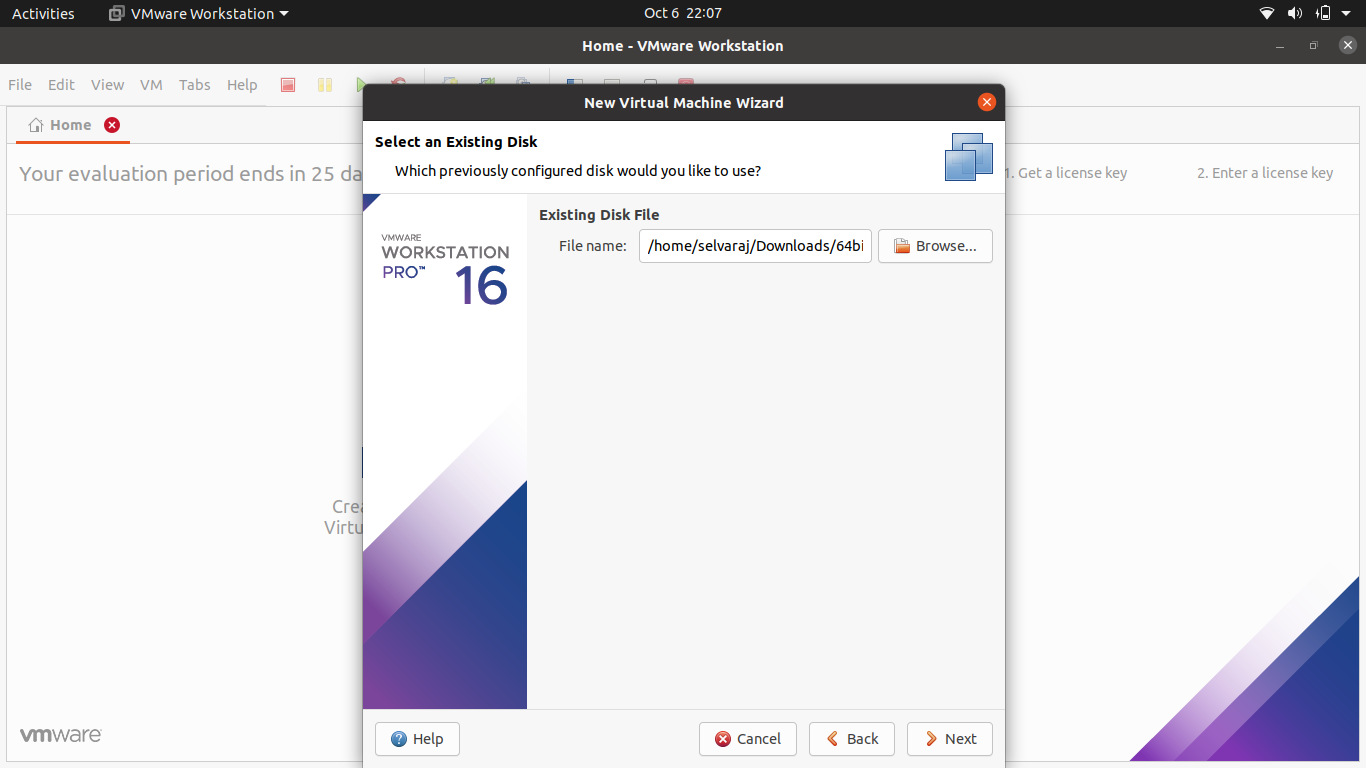
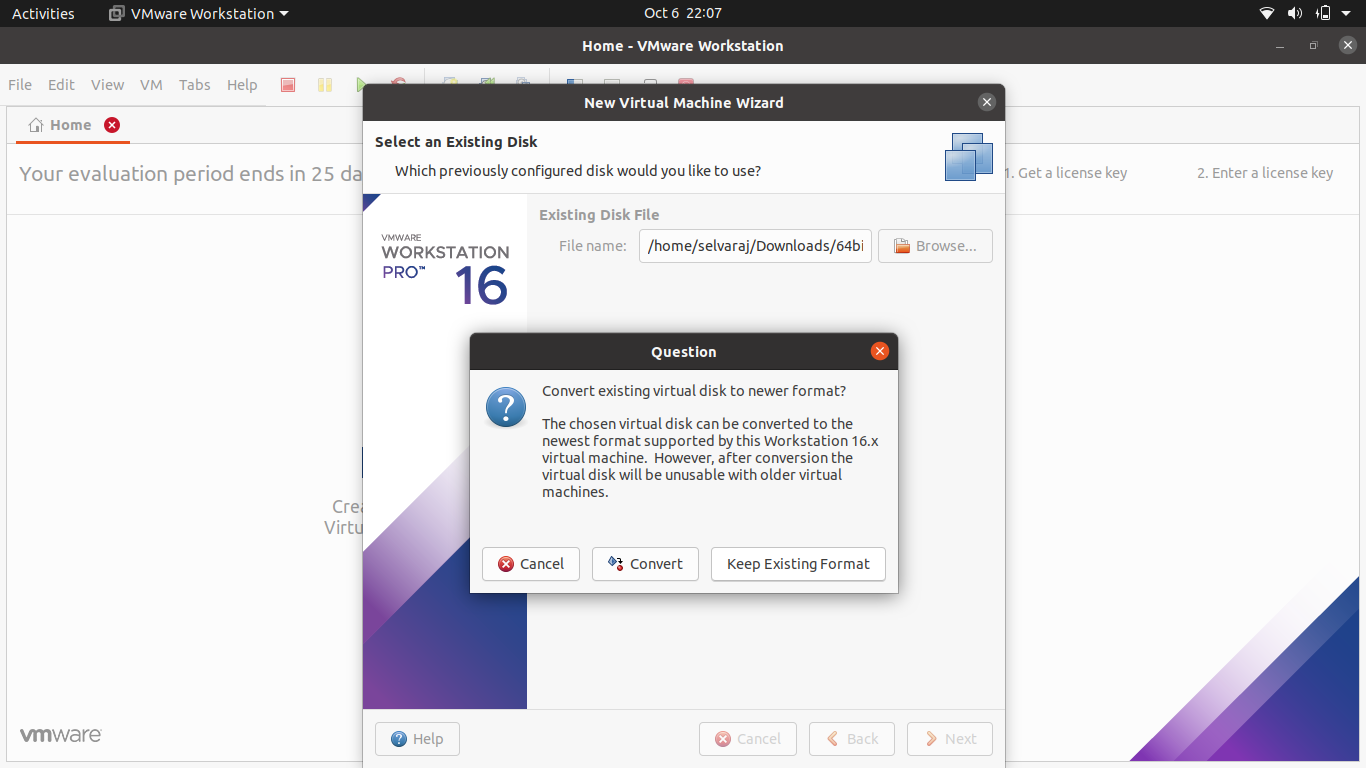
vmware

diff --git a/README.md b/README.md
@@ -116,18 +116,55 @@ Select Input/Output Controller Types
 
 ![vmware_25](https://github.com/selvaraj-kuppusamy/vmware-debian/blob/main/assets/vmware_25.png)
 
-
-sdsbvlebl
+Select the Disk Type
 
 ![vmware_26](https://github.com/selvaraj-kuppusamy/vmware-debian/blob/main/assets/vmware_26.png)
+
+Select a Disk
+In this case Use an existing virtual disk
+
 ![vmware_27](https://github.com/selvaraj-kuppusamy/vmware-debian/blob/main/assets/vmware_27.png)
+
+Select an Existing Disk
+
 ![vmware_28](https://github.com/selvaraj-kuppusamy/vmware-debian/blob/main/assets/vmware_28.png)
+
+Choose an VMware virtual disk image
+
 ![vmware_29](https://github.com/selvaraj-kuppusamy/vmware-debian/blob/main/assets/vmware_29.png)
+
+Select an Existing Disk and Click Keep Existing Format
+
 ![vmware_30](https://github.com/selvaraj-kuppusamy/vmware-debian/blob/main/assets/vmware_30.png)
+
+Select an Existing Disk and Click Next
 ![vmware_31](https://github.com/selvaraj-kuppusamy/vmware-debian/blob/main/assets/vmware_31.png)
+
+Read the Information  and Ready to Create Virtual Machine
+
 ![vmware_32](https://github.com/selvaraj-kuppusamy/vmware-debian/blob/main/assets/vmware_32.png)
+
+Now, Debian VMware Workstation Ready to Start
+
 ![vmware_33](https://github.com/selvaraj-kuppusamy/vmware-debian/blob/main/assets/vmware_33.png)
+
+Start up this guest operating system
+
 ![vmware_34](https://github.com/selvaraj-kuppusamy/vmware-debian/blob/main/assets/vmware_34.png)
+
+Now, VMware is started , It's waiting for connection...
+
 ![vmware_35](https://github.com/selvaraj-kuppusamy/vmware-debian/blob/main/assets/vmware_35.png)
+
+Loaded Debian GRUB file in VMware
+
 ![vmware_36](https://github.com/selvaraj-kuppusamy/vmware-debian/blob/main/assets/vmware_36.png)
+
+
+Where ***USERNAME*** is a valid username on the Guest. You will be prompted for the user password and be given access.
+* **Username** - osboxes
+* **Password** -  osboxes.org
+* **Root Account Password** - osboxes.org
+
+
 ![vmware_37](https://github.com/selvaraj-kuppusamy/vmware-debian/blob/main/assets/vmware_37.png)
